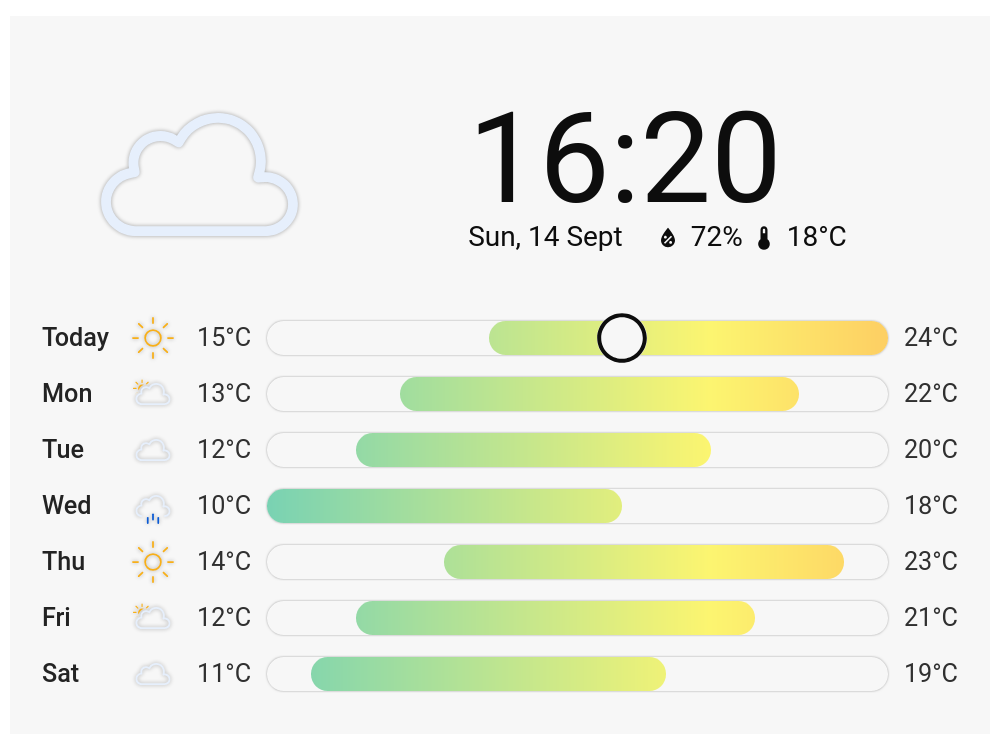
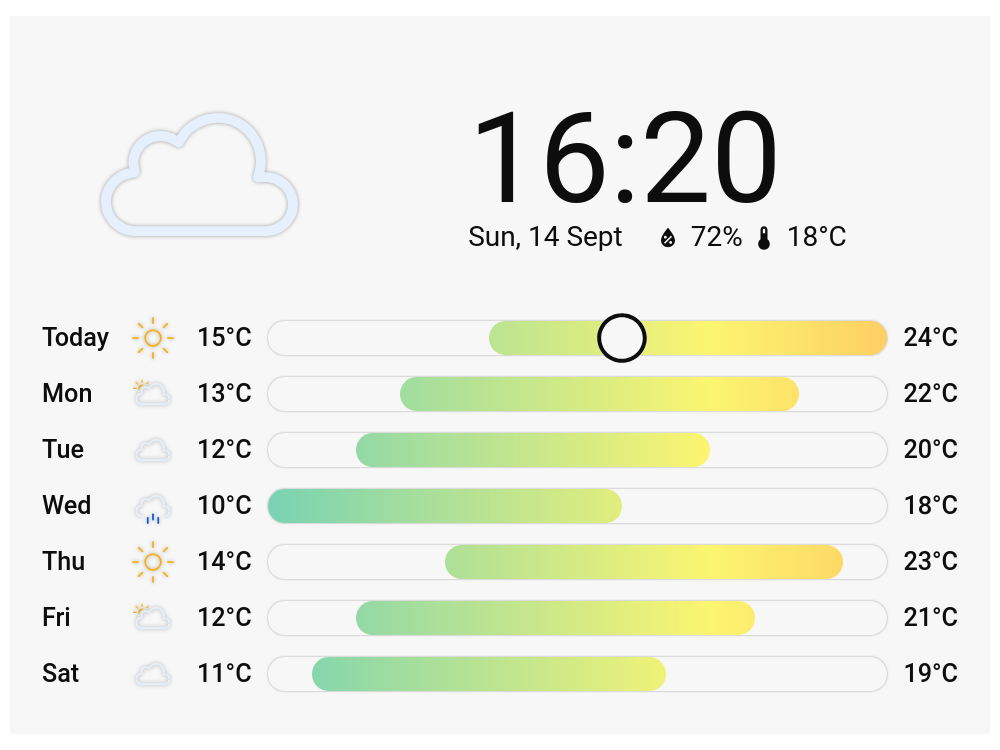
style(forecast): unify the text style of forecast strip and list temperatures

diff --git a/src/styles.ts b/src/styles.ts
@@ -148,7 +148,7 @@ export default css`
 
   clock-weather-card-forecast-strip-item .label {
     display: inline-flex;
-    font-size: 0.95rem;
+    font-size: 0.9rem;
     font-weight: 500;
     line-height: 1;
     --mdc-icon-size: 1em;
@@ -203,6 +203,7 @@ export default css`
     align-items: center;
     column-gap: 8px;
     font-size: 0.9rem;
+    font-weight: 500;
     line-height: 1;
   }
 
@@ -213,8 +214,6 @@ export default css`
   }
 
   clock-weather-card-forecast-list-item .label {
-    font-weight: 500;
-    opacity: 0.9;
     max-width: 5em;
     overflow-x: clip;
     text-overflow: ellipsis;
@@ -236,7 +235,6 @@ export default css`
   clock-weather-card-forecast-list-item .temperature-low,
   clock-weather-card-forecast-list-item .temperature-high {
     font-variant-numeric: tabular-nums;
-    opacity: 0.85;
     line-height: 1;
   }
 
